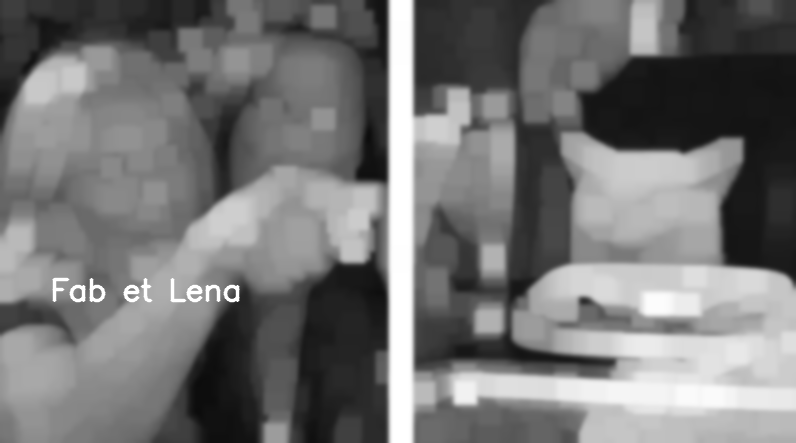
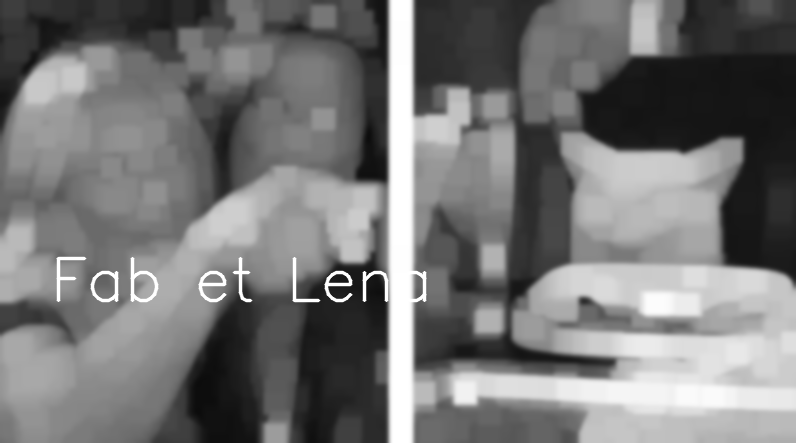
ajout d'exception

Changed region(s): [[0.0603, 0.5576, 0.3317, 0.7043], [0.3618, 0.5869, 0.5427, 0.7043]]

diff --git a/cli.py b/cli.py
@@ -1,5 +1,6 @@
 import os
 import sys
+
 import main
 import configparser
 
@@ -11,25 +12,31 @@ The third condition can check arguments, manage configuration file "image.ini" a
 """
 
 args = sys.argv
-print(f"args={args}")
+menu_help = "usage: imagefilter \n -h,--help \n -i,--img-dir <directory> \n -o,--output-dir <directory> \n -f, " \
+            "--filters \n --config-file, <file> \n --list-filters"
 
 if args[1] == "-h":
-    print("usage: imagefilter \n -h,--help \n -i,--img-dir <directory> \n -o,--output-dir <directory> \n -f,"
-          "--filters \n --config-file, <file> \n --list-filters")
+    print(menu_help)
 elif args[1] == "-i" and args[3] == "-o" and args[5] == "-f":
     input_arg = args[2]
     output_arg = args[4]
     filter_arg = args[6]
     main.filter(input_arg, output_arg, filter_arg)
-elif args[1] == "--config-file" and args[2] == "image.ini":
-    config = configparser.ConfigParser()
-    config.read("image.ini")
-    with open('image.ini', 'w') as configfile:
-        config.write(configfile)
-        content = config['filters']['content']
-        input = config['general']["input_dir"]
-        output = config['general']["output_dir"]
-        main.filter(input, output, content)
+elif args[1] == "--config-file":
+    ini_file = args[2]
+    if not os.path.isfile(ini_file):
+        print(f"The file does not exist : {ini_file}")
+    elif not ini_file.endswith(".ini"):
+        print(f"The file is not in good format : {ini_file.split('.')[1]} !")
+    else:
+        config = configparser.ConfigParser()
+        config.read(ini_file)
+        with open(ini_file, 'w') as configfile:
+            config.write(configfile)
+            content = config['filters']['content']
+            input = config['general']["input_dir"]
+            output = config['general']["output_dir"]
+            main.filter(input, output, content)
 elif args[1] == "--list-filters":
     print("Filters :")
     with os.scandir("filtres") as entries:
@@ -37,6 +44,9 @@ elif args[1] == "--list-filters":
             for entry in entries:
                 if not entry.name.startswith("__"):
                     print(f"{entry.name}")
+else:
+    print("YOU MADE A MISTAKE IN THE ORDER !")
+    print(menu_help)
 
 
 

diff --git a/main.py b/main.py
@@ -1,5 +1,6 @@
 import os
 import cv2
+
 from filtres import blur, black_white as bw, dilate, ze_team
 import logger as log
 
@@ -48,6 +49,8 @@ def filter(input, output, filter):
                     elif k.startswith("ze_team"):
                         image = ze_team.ze_team(image)
                         log.write_log("Applying a ze team filter ...")
+                    else:
+                        print("No filters match")
                 resultat = cv2.imwrite(f'{output}/{entry.name}', image)
                 log.write_log(f"Save result image in {output}/{entry.name} : {resultat} !")
         else:

diff --git a/filtres/ze_team.py b/filtres/ze_team.py
@@ -9,8 +9,8 @@ def ze_team(image):
     """
     font = cv2.FONT_HERSHEY_SIMPLEX
     org = (50, 300)
-    fontScale = 1
-    color = (255, 0, 0)
+    fontScale = 2
+    color = (255, 255, 255)
     thickness = 2
     ze_team = cv2.putText(image, 'Fab et Lena', org, font, fontScale, color, thickness, cv2.LINE_AA)
     return ze_team
